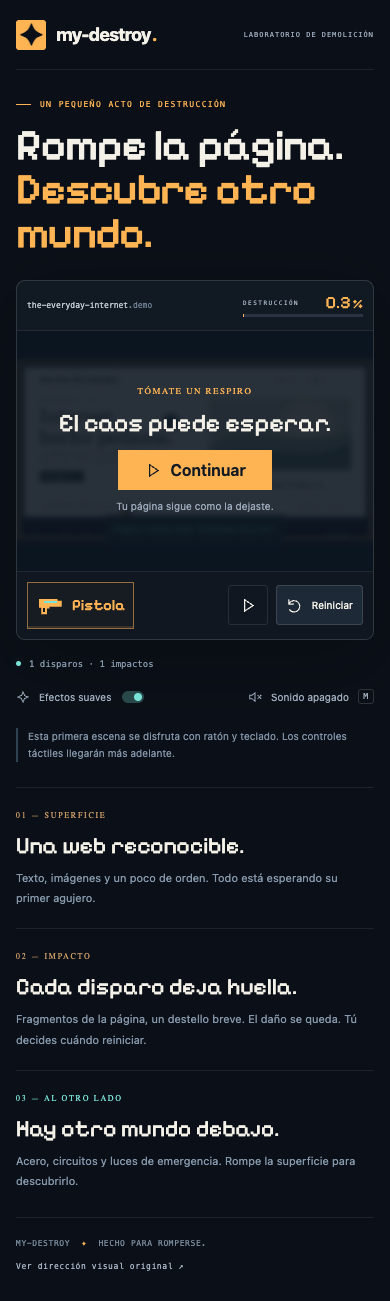
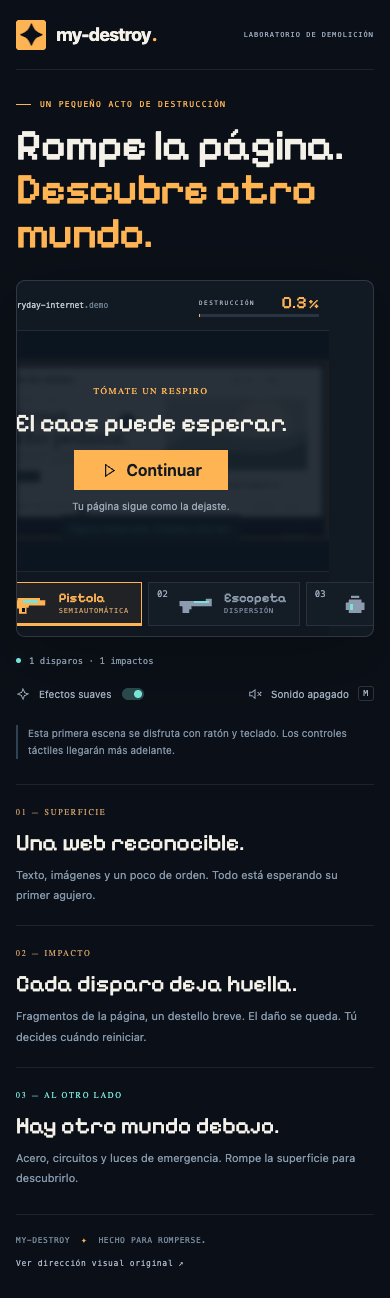
test: anadir prueba e2e de cambio de armas, dispersion y detonacion de granadas

diff --git a/tests/scene.spec.ts b/tests/scene.spec.ts
@@ -111,3 +111,48 @@ test('player jumps onto destructible platform and falls when destroyed underneat
   expect(landedCatwalk.platform).toBe('catwalk');
 });
 
+test('weapon arsenal switches via hotkeys/UI and supports shotgun spread and grenade physics', async ({ page }) => {
+  await page.goto('/');
+  await expect(page.getByRole('button', { name: 'Reiniciar' })).toBeEnabled();
+  await expect(page.locator('canvas')).toHaveCount(1);
+  await page.locator('canvas').focus();
+
+  // Initial weapon is pistol
+  let state = await snapshot(page);
+  expect(state.weapon).toBe('pistol');
+
+  // Switch to shotgun using hotkey '2'
+  await page.keyboard.press('Digit2');
+  state = await snapshot(page);
+  expect(state.weapon).toBe('shotgun');
+  await expect(page.locator('.weapon-slot[data-active="true"]')).toContainText('Escopeta');
+
+  // Fire shotgun at target area
+  await fire(page, 700, 200);
+  await expect.poll(async () => (await snapshot(page)).shots).toBe(1);
+  await expect.poll(async () => (await snapshot(page)).hits).toBeGreaterThanOrEqual(1);
+
+  // Switch to grenade using UI button
+  await page.locator('.weapon-slot', { hasText: 'Granadas' }).click();
+  state = await snapshot(page);
+  expect(state.weapon).toBe('grenade');
+
+  // Fire grenade towards the demo page center
+  const initialRemoved = (await snapshot(page)).removed;
+  await fire(page, 600, 300);
+  await expect.poll(async () => (await snapshot(page)).shots).toBe(2);
+
+  // Grenade has a 1.2s fuse, after detonation it should increase removed pixels with a wide radial crater
+  await page.waitForTimeout(1600);
+  const postBlast = await snapshot(page);
+  expect(postBlast.removed).toBeGreaterThan(initialRemoved);
+
+  // Switch back to pistol using hotkey '1'
+  await page.locator('canvas').focus();
+  await page.keyboard.press('Digit1');
+  state = await snapshot(page);
+  expect(state.weapon).toBe('pistol');
+  await expect(page.locator('.weapon-slot[data-active="true"]')).toContainText('Pistola');
+});
+
+
